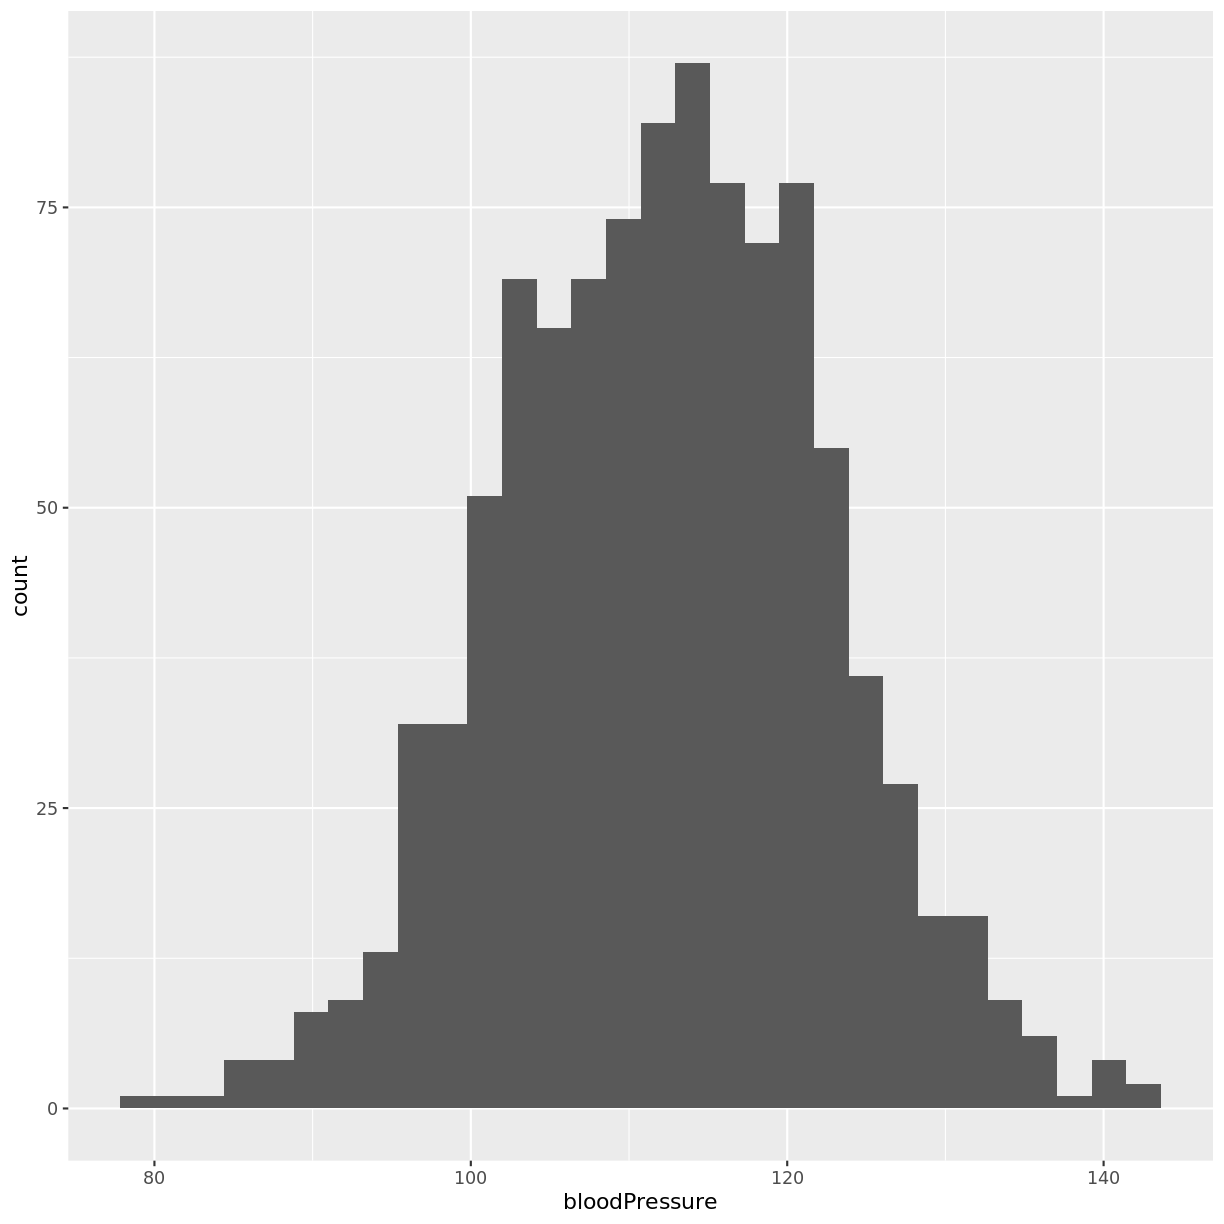
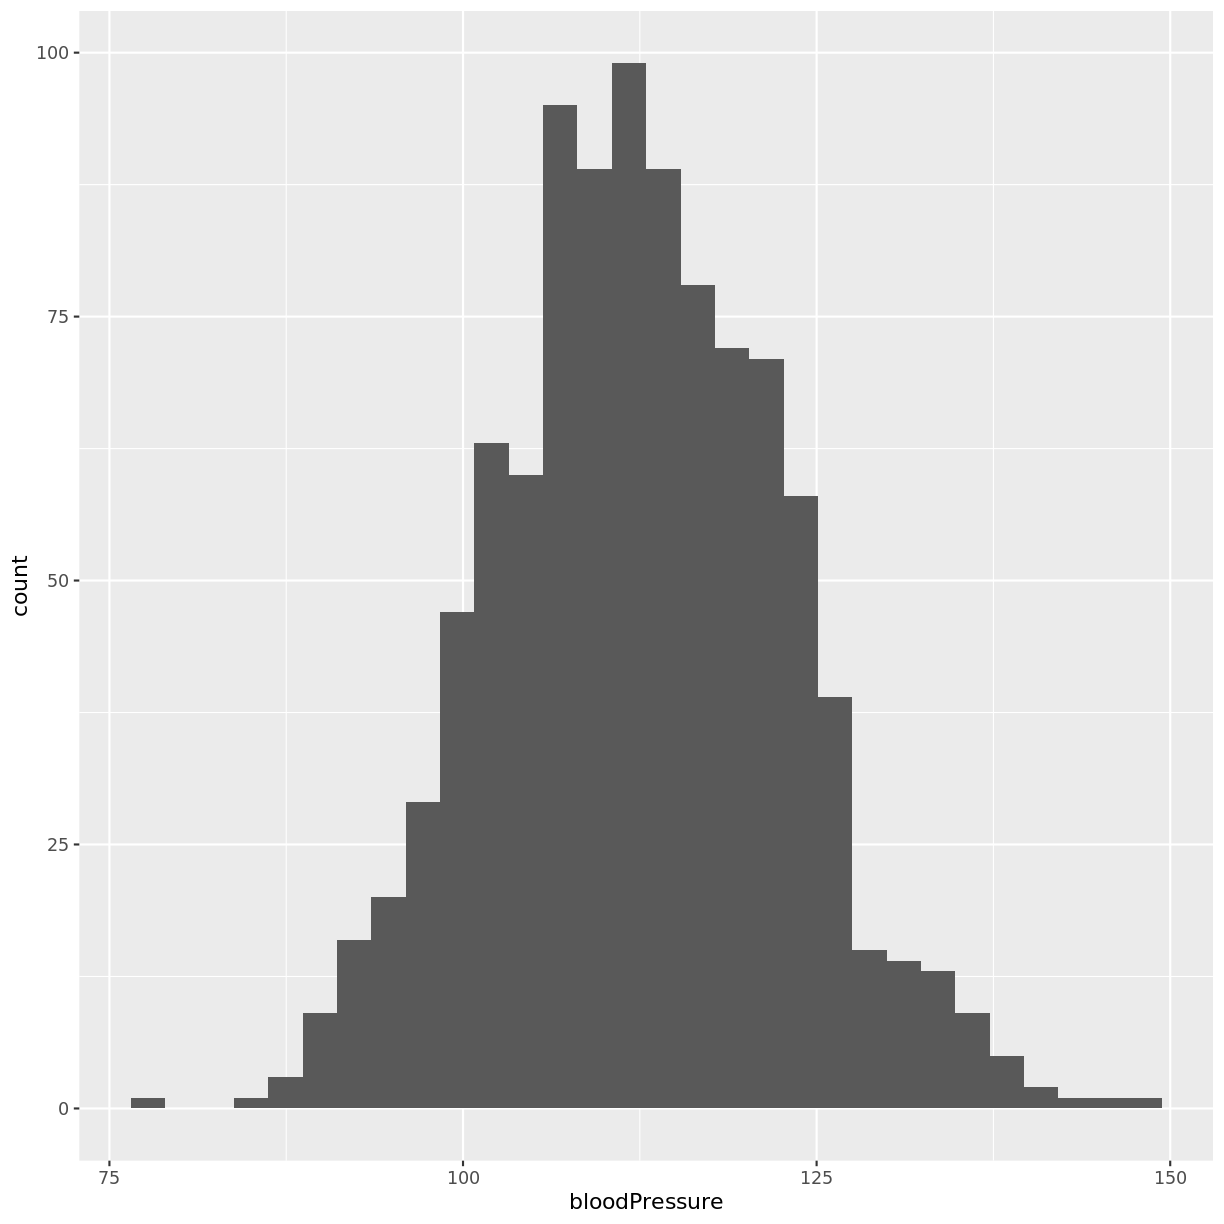
add set.seed commands

diff --git a/_episodes/01-describeVariable.md b/_episodes/01-describeVariable.md
@@ -82,6 +82,9 @@ of female heights in the US using `rnorm()`. We store these values in a tibble,
 with the column named `heights`.
 
 
+
+
+
 ~~~
 sample <- tibble(heights = rnorm(1000, mean = 112, sd = 6.89))
 ~~~
@@ -116,7 +119,7 @@ meanHeight
 
 
 ~~~
-[1] 112.1021
+[1] 112.2838
 ~~~
 {: .output}
 
@@ -133,7 +136,7 @@ variance
 
 
 ~~~
-[1] 50.11329
+[1] 49.21161
 ~~~
 {: .output}
 
@@ -150,7 +153,7 @@ sqrt(variance)
 
 
 ~~~
-[1] 7.079074
+[1] 7.015098
 ~~~
 {: .output}
 
@@ -158,6 +161,9 @@ sqrt(variance)
 > ## Exercise
 > The normal distribution of systolic blood pressure has a mean of 112 mmHg 
 > and a standard deviation of 10 mmHg. The distribution looks as follows:
+> 
+> 
+> 
 > <img src="../fig/rmd-01-blood pressure density plot-1.png" title="plot of chunk blood pressure density plot" alt="plot of chunk blood pressure density plot" width="612" style="display: block; margin: auto;" />
 > A) Sample one thousand observations from this distribution. Then, create a histogram of your sample.  
 > B) Calculate the average systolic blood pressure in your sample.
@@ -203,7 +209,7 @@ sqrt(variance)
 > > 
 > > 
 > > ~~~
-> > [1] 103.2325
+> > [1] 103.6643
 > > ~~~
 > > {: .output}
 > > 
@@ -220,7 +226,7 @@ sqrt(variance)
 > > 
 > > 
 > > ~~~
-> > [1] 10.16034
+> > [1] 10.18157
 > > ~~~
 > > {: .output}
 > {: .solution}
